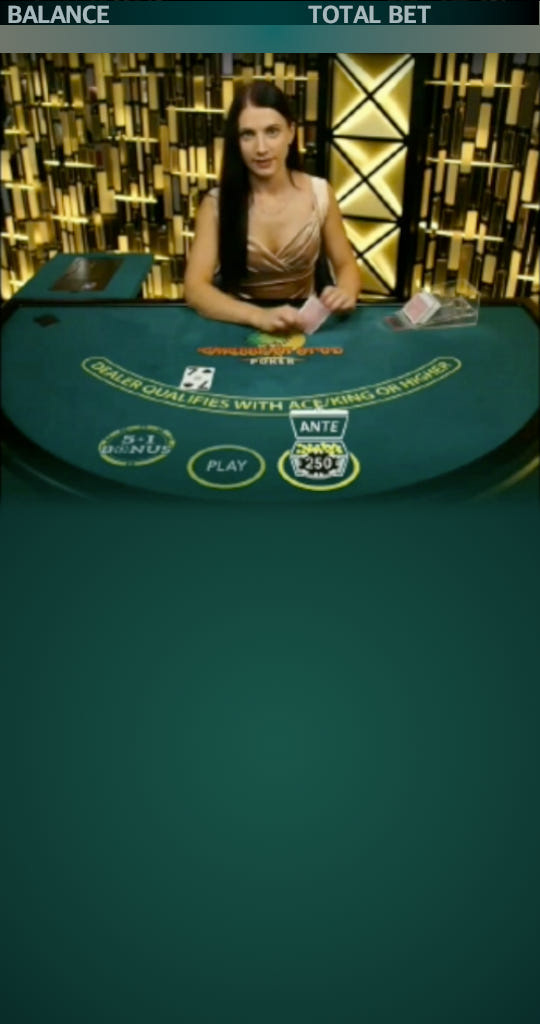
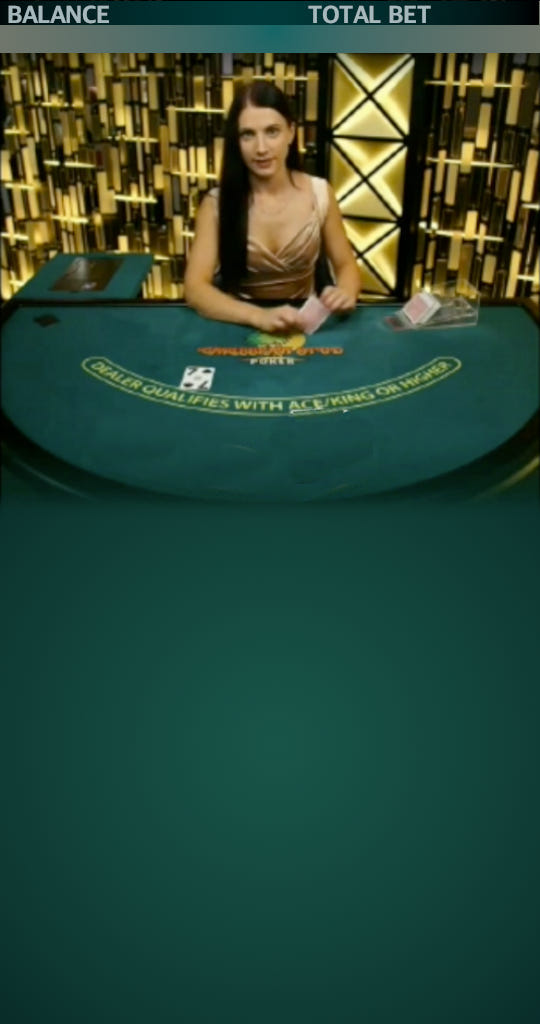
Add files via upload

Changed region(s): [[0.1778, 0.375, 0.6815, 0.5]]

diff --git a/anim.js b/anim.js
@@ -2,72 +2,87 @@
 let app = new Application({ width: 540, height: 1024, antialiasing: true, transparent: false, resolution: window.devicePixelRatio || 1 });
 var element = document.getElementById("anim");//HTML elemet for placing canvas for game
 element.appendChild(app.view);//Add app view in html element
+var basepath = "./assets/";
 //Image string that uses in game 
-var imageArr = ["assets/menu.png", "assets/repeat.png", "assets/undo.png", "assets/bonus.png", "assets/anteglow.png", "assets/ante.png", "assets/0.png", "assets/1.png", "assets/2.png", "assets/3.png", "assets/4.png", "assets/5.png", "assets/background.jpeg"];
+
+
+var imageArr = [basepath + "tableBonus.png", basepath + "tablePlay.png", basepath + "tableANTE.png", basepath + "opecity.png", basepath + "toolowbase.png",
+basepath + "menu.png", basepath + "repeat.png", basepath + "undo.png", basepath + "bonus.png", basepath + "anteglow.png", basepath + "ante.png", basepath + "0.png", basepath + "1.png", basepath + "2.png", basepath + "3.png", basepath + "4.png", basepath + "5.png", basepath + "background.jpeg"];
 for (var i = 2; i < 15; i++) {
-  imageArr.push("assets/cards/C" + i + ".png");//club card load
-  imageArr.push("assets/cards/D" + i + ".png");//Dimond card load
-  imageArr.push("assets/cards/H" + i + ".png");//Heart card load
-  imageArr.push("assets/cards/S" + i + ".png");//Spade card load
+  imageArr.push(basepath + "cards/C" + i + ".png");//club card load
+  imageArr.push(basepath + "cards/D" + i + ".png");//Dimond card load
+  imageArr.push(basepath + "cards/H" + i + ".png");//Heart card load
+  imageArr.push(basepath + "cards/S" + i + ".png");//Spade card load
 }
 // Load images
 loader.add(imageArr).on("progress", loadProgressHandler).load(setup);
 
 //for loading progress
 function loadProgressHandler(loader, resource) {
-  console.log("loading: " + resource.url);
-  console.log("progress: " + loader.progress + "%");
+  // console.log("loading: " + resource.url);
+  // console.log("progress: " + loader.progress + "%");
 }
 
 // Call after load all resources 
 function setup() {
-
-  background = new Sprite(resources["assets/background.jpeg"].texture);//create background Sprite
+  document.addEventListener('touchstart', e =>{toggleFullScreen();}); //toggle fullscreen for mobile
+  document.addEventListener('mousedown', e =>{toggleFullScreen();});  //toggle fullscreen for desktop
+  background = new Sprite(resources[basepath + "background.jpeg"].texture);//create background Sprite
   app.stage.addChild(background);//add background Sprite in app
+  trans_Background = new Sprite(resources[basepath + "opecity.png"].texture);//create background Sprite
   app.stage.addChild(graphics);//add graphics in app view for drowing Rectangles
-  sprite_undo = loadSprite("assets/undo.png", 112, 500, 610, 1);//create and add undo Sprite in app view with click event 112
-  sprite_repeat = loadSprite("assets/repeat.png", 111, 500, 810, 1);//create and add repeat Sprite in app view with click event 111
-  sprite_menu = loadSprite("assets/menu.png", 110, 500, 900, 1);//create and add menu Sprite in app view with click event 110
+
+
+  tableBonus = loadSprite(basepath + "tableBonus.png" , 113, 130, 435, 1);//create and add tableBonus Sprite in app view with click event 112
+  tablePlay = loadSprite(basepath + "tablePlay.png"   , 114, 222, 460, 1);//create and add tablePlay Sprite in app view with click event 112
+  tableANTE = loadSprite(basepath + "tableANTE.png"   , 115, 320, 460, 1);//create and add tableANTE Sprite in app view with click event 112
+
+  sprite_undo = loadSprite(basepath + "undo.png", 112, 500, 610, 1);//create and add undo Sprite in app view with click event 112
+  sprite_repeat = loadSprite(basepath + "repeat.png", 111, 500, 810, 1);//create and add repeat Sprite in app view with click event 111
+  sprite_menu = loadSprite(basepath + "menu.png", 110, 500, 900, 1);//create and add menu Sprite in app view with click event 110
+  app.stage.addChild(trans_Background);//add background Sprite in app
+  trans_Background.visible = false;
   // Require small coin for flying animation  
   for (let i = 0; i < coinArray.length; i++) {
-    coinArray[i] = loadSprite("assets/" + i + ".png", i, posx, posy, 1);//create and add coinArray Sprite in app view with click event i(0 to 5)
+    coinArray[i] = loadSprite(basepath + "" + i + ".png", i, posx, posy, 1);//create and add coinArray Sprite in app view with click event i(0 to 5)
   }
-
   // Require big coin for flying animation  
   for (let i = 0; i < coinArrayBig.length; i++) {
-    coinArrayBig[i] = loadSprite("assets/" + i + ".png", i + 6, posx, posy, 1.5);//create and add coinArrayBig Sprite in app view with click event i + 6(6 to 11)
+    coinArrayBig[i] = loadSprite(basepath + "" + i + ".png", i + 6, posx, posy, 1.5);//create and add coinArrayBig Sprite in app view with click event i + 6(6 to 11)
     coinArrayBig[i].visible = selCoin == 0;//set visible big coin 
   }
-
-  sprite_GlowAnte = loadSprite("assets/anteglow.png", -1, 270, 840, 1);//create and add sprite_GlowAnte Sprite in app view
+  console.log("Boolean(10 > 9)" + Math.random());
+  console.log(compRan());
+  sprite_GlowAnte = loadSprite(basepath + "anteglow.png", -1, 270, 840, 1);//create and add sprite_GlowAnte Sprite in app view
   sprite_GlowAnte.vx = 1;//set sprite_GlowAnte scale 
   sprite_GlowAnte.vy = .01;//for animating glow by scale fector 
   // Require to load for ANTE button
-  spriteAnte = loadSprite("assets/ante.png", 100, 270, 840, 1);//create and add Ante Sprite in app view with click event 100
-
+  spriteAnte = loadSprite(basepath + "ante.png", 100, 270, 840, 1);//create and add Ante Sprite in app view with click event 100
   // Require to load for Bonus button
-  sprite_bonus = loadSprite("assets/bonus.png", 101, 170, 688, 1);//create and add bonus in app view with click event 101
-
+  sprite_bonus = loadSprite(basepath + "bonus.png", 101, 170, 688, 1);//create and add bonus in app view with click event 101
   txtBalance = loadText({ fill: "#9e9b4d", fontSize: 20, fontWeight: "bold" });//create and add Balance Text in app view
   txtBat = loadText({ fill: "#9e9b4d", fontSize: 20, fontWeight: "bold" });//create and add Bat Text in app view
   txtDydnamic = loadText({ fill: "#fafafa", fontSize: 25, fontWeight: "normal" });//create and add Dydnamic Text in app view
   txtbottomLeft = loadText({ fill: "#fafafa", fontSize: 15, fontWeight: "normal" });//create and add Dydnamic Text in app view
-  txtbottomLeft.position.set(10,1000);
+  txtbottomLeft.position.set(10, 1000);
   txtbottomLeft.text = 'Left Test';
   txtbottomRight = loadText({ fill: "#fafafa", fontSize: 15, fontWeight: "normal" });//create and add Dydnamic Text in app view
-  txtbottomRight.position.set(400,1000);
+  txtbottomRight.position.set(400, 1000);
   txtbottomRight.text = 'txtbottomRight Test';
+
+  toolowbase = loadSprite_2(basepath + "toolowbase.png", 455, 710, 1.2);
+  txtWait4Next = loadText({ fill: "#fafafa", fontSize: 15, fontWeight: "normal" });
+  txtWait4Next.position.set(400, 700);
+  txtWait4Next.text = 'Balance too low';
+  txtWait4Next.myCustomProperty = 1;
+
   for (var i = 0; i < 4; i++) {
     txt_4_card.push(loadText({ fill: "#fafafa", fontSize: 15, fontWeight: "normal" }));//create and add text for card like "player","dealer","High card" in app view
     txt_4_card[i].visible = false;
   }
-
-
-
   setVisible(true);//set visiblity of coins and button
   resetValue();//call function for reset app related values
   timeoutHandle = setTimeout(nextTurn, 1000);//set timeout function for game dynamicCounter
-
   //Calling play recursive for rendering 
   state = play;
   app.ticker.add(delta => gameLoop(delta));
@@ -120,16 +135,37 @@ function onButtonClick(e) {
     return;
   }
   switch (e.target.myCustomProperty) {
+    case 113:case 114:case 115: 
+    if(dynamicCounter<0)
+    {
+      txtWait4Next.myCustomProperty = 100;
+        txtWait4Next.position.set(210, 350);
+        txtWait4Next.text = "Wait for next game";
+    }
+    return;//click for menu button
     case 110: return;//click for menu button
     case 111: sendCoinonTable(500, 810, 320, 458); return;//click for reapeat button
     case 112: undoValuse();
       return;//click for undo button
     case 101://click for bonus button
-      sendCoinonTable(170, 688, 135, 445);
+      if (coinValue[selCoin] > balance) {
+        txtWait4Next.myCustomProperty = 100;
+        txtWait4Next.position.set(sprite_bonus.x, sprite_bonus.y - 50);
+        txtWait4Next.text = 'Balance too low ';
+      } else {
+        sendCoinonTable(170, 688, 135, 445);
+      }
       return;
     case 100://click for ANTE button
-      sendCoinonTable(270, 840, 320, 458);
-      selBigSprite.push(loadSprite("assets/" + selCoin + ".png", -1, 270, 840, 1.5));
+      if (coinValue[selCoin] > balance) {
+        txtWait4Next.myCustomProperty = 100;
+        txtWait4Next.position.set(spriteAnte.x, spriteAnte.y - 50);
+        txtWait4Next.text = 'Balance too low';
+      } else {
+        sendCoinonTable(270, 840, 320, 458);
+        selBigSprite.push(loadSprite(basepath + "" + selCoin + ".png", -1, 270, 840, 1.5));
+      }
+
       return;
     default:// click for all coinArrayBig & coinArray coin
       if (coinArray[2].x > posx - 10) { //coin flying open animation start
@@ -146,16 +182,25 @@ function onButtonClick(e) {
         goOut = -0.2;//set horizontal direction for flying coin and bigcoin
         count = 0;//set cont for flying animation
       } else { ////coin flying cloase animation start
+
         for (let i = 0; i < coinArray.length; i++) {
           coinArray[i].vx = Math.sin((5 - i) * 36 * (Math.PI / 180)) * speed;//set horizontal direction for flying coin close
           coinArray[i].vy = -Math.cos((5 - i) * 36 * (Math.PI / 180)) * speed;//set verticle direction for flying coin close
           if (e.target.myCustomProperty < 6) {// set selCoin coin when click on small coin condition
             coinArrayBig[i].visible = e.target.myCustomProperty == i;// set visible true of big coin when click on respective small coin
             selCoin = e.target.myCustomProperty;// set selCoin coin when click on small coin
+            console.log(i + " txtWait4Next.y = " + txtWait4Next.y);
           }
         }
         goOut = 0.2;//set horizontal direction for flying coin and bigcoin
         count = 0;//set cont for flying animation
+
+
+        if (coinValue[selCoin] > balance) {
+          txtWait4Next.myCustomProperty = 100;
+          txtWait4Next.position.set(400, coinArray[selCoin].y - 50);
+          txtWait4Next.text = 'Too low balance';
+        }
 
       }
       return;
@@ -194,6 +239,7 @@ function setVisible(isvisible) {//set visiblity of bat button and coin
   spriteAnte.visible = isvisible;
   sprite_bonus.visible = isvisible;
   sprite_GlowAnte.visible = isvisible;
+  trans_Background.visible = false;
 }
 function resetValue() {//reset game valuse
   currentbat = 0;//reset bet of game
@@ -210,8 +256,8 @@ function resetValue() {//reset game valuse
     app.stage.removeChild(mSprit_Cards[i]);//remove all cards that uses for player(2) dealer(5) and deal(5) 
   }
   mSprit_Cards.length = 0;
-  for (var i = 0; i < 9; i++) {//asign all cards that uses for player(2) dealer(5) and deal(5) 
-    mSprit_Cards.push(loadSprite_2("assets/cards/" + cards[i] + ".png", 100 + i * 34, 600, .25));
+  for (var i = 0; i < 10; i++) {//asign all cards that uses for player(2) dealer(5) and deal(5) 
+    mSprit_Cards.push(loadSprite_2(basepath + "cards/" + cards[i] + ".png", 100 + i * 34, 600, .25));
   }
   for (var i = 0; i < txt_4_card.length; i++) {
     txt_4_card[i].visible = false;//false visible text for card like "player","dealer","High card" in app view
@@ -227,9 +273,9 @@ function make_deck() {//asign card valus
     cards[j++] = "C" + i;
     cards[j++] = "S" + i;
   }
-  console.log(cards);
+  // console.log(cards);
   shuffle();
-  console.log(cards);
+  // console.log(cards);
 }
 function shuffle() {
   deck_index = 0;
@@ -265,3 +311,10 @@ window.onresize = function (event) {
   console.log("ancho,alto");
   resize();
 };
+
+function toggleFullScreen() {
+  if (!document.fullscreenElement) {
+    document.documentElement.requestFullscreen();
+
+  }
+}

diff --git a/dynmicRect.js b/dynmicRect.js
@@ -3,33 +3,35 @@ function DrawDynamicRect() {
     graphics.alpha = 1;
     if (dynamicCounter > 5) {//this is for plase order with green color
         if (allcounter % 20 > 10)
-            graphics.beginFill(0x00aa00);
+            graphics.beginFill(0x00aa00); //green
         else
-            graphics.beginFill(0x00bb00);
-        txtDydnamic.text = "PLACE YOUR BATS " + dynamicCounter;
-    } else if (dynamicCounter > 0) {//this is for plase order with orange color
+            graphics.beginFill(0x00bb00); //green
+        txtDydnamic.text = "PLACE YOUR BETS " + dynamicCounter;
+    } else if (dynamicCounter > 0) {//this is for place order with orange color
         if (allcounter % 20 > 10)
-            graphics.beginFill(0xff6000);
+            graphics.beginFill(0xff6000); //orange
         else
-            graphics.beginFill(0xd95200);
-        txtDydnamic.text = "PLACE YOUR BATS " + dynamicCounter;
+            graphics.beginFill(0xd95200); //dark orange
+        txtDydnamic.text = "PLACE YOUR BETS " + dynamicCounter;
     } else if (dynamicCounter > -2) {//this is for BATS CLOSED with red color
-        graphics.beginFill(0xff0000);
-        txtDydnamic.text = "......BATS CLOSED......";
+        graphics.beginFill(0xff0000); //red
+        txtDydnamic.text = "......BETS CLOSED......";
     } else {//For "WAIT FOR NEXT GAME with gray color and increase time from nextTurn() dynamicCounter make mode negetive for more time //anim.js line 167
-        graphics.beginFill(0x999999);
+        graphics.beginFill(0x999999); //grey
         txtDydnamic.text = "WAIT FOR NEXT GAME";
     }
     graphics.drawRect(0, 25, app.screen.width, 30);
-    graphics.beginFill(0x13463d);
+    graphics.beginFill(0x13463d); //dark green
     graphics.drawRect(0, 525, app.screen.width, 500);
+
+   
     
 }
 
 
 
 function drawCards() {
-    if (dynamicCounter < -3 && dynamicCounter > -15) {
+    if (dynamicCounter < -3 && dynamicCounter > -15) {//this is for showing two player card
         drawText(0,"PLAYER",240,528);
         drawText(1,"HIGH CARD",230,607);
         graphics.alpha = 0.25;
@@ -40,7 +42,7 @@ function drawCards() {
             mSprit_Cards[i].position.set(255 + i * 34, 580);
         }
     }
-    if (dynamicCounter <= -15 && dynamicCounter > -20) {
+    if (dynamicCounter <= -15 && dynamicCounter > -20) {//this is for showing five player card including(boat card)
         
         graphics.alpha = 0.25;
         graphics.beginFill(0x000000);
@@ -50,21 +52,22 @@ function drawCards() {
             mSprit_Cards[i].position.set(205 + i * 34, 580);
         }
     }
-    if (dynamicCounter <= -20 && dynamicCounter > -30) {
+    if (dynamicCounter <= -20 && dynamicCounter > -30) {//this is for showing ten player and dealer card including(boat card)
         drawText(0,"DEALER WINS",240,528);
         drawText(1,"HIGH CARD",230,607);
         
         drawText(2,"PLAYER",240,643);
         drawText(3,"HIGH CARD",230,720);
         
-        graphics.lineStyle(2, 0xf8db74);
+        graphics.lineStyle(2, 0xf8db74); //yellow
         graphics.alpha = 0.5;
-        graphics.beginFill(0x000000);
-        graphics.drawRect(150, 525, app.screen.width - 300, 100);graphics.lineStyle(0, 0xFF0000);
+        graphics.beginFill(0x000000); //black
+        graphics.drawRect(150, 525, app.screen.width - 300, 100);graphics.lineStyle(0, 0xFF0000); //red
         graphics.drawRect(150, 640, app.screen.width - 300, 100);
         for (var i = 0; i < mSprit_Cards.length; i++) {
             mSprit_Cards[i].visible = true;
             mSprit_Cards[i].position.set(200 + (i % 5) * 34, 580 + Math.floor(i / 5) * 115);
+            // console.log("i= "+i+") mSprit_Cards["+i+"].position.set(200 + ("+(i % 5)+") * 34, 580 + "+Math.floor(i / 5) +"* 115);");
         }
     }
 }

diff --git a/coinanim.js b/coinanim.js
@@ -8,8 +8,17 @@ function coinAnim() {
             coinArray[i].rotation = (Math.PI * speed * count) / 55;//(count*Math.PI)*0.02;
             coinArrayBig[i].x += goOut * 4;
         }
+        if (coinArray[2].vx > 0)//alph animation
+            trans_Background.alpha -= .05;
+        else
+            trans_Background.alpha += .05;
+        trans_Background.visible = true;
         count++;
     } else {
+        if (coinArray[2].vx > 0) {
+            trans_Background.visible = false;
+            trans_Background.alpha = .5;
+        }
         goOut = 0;
     }
     //for coin movment from bonus/ANTE to table
@@ -49,6 +58,16 @@ function coinAnim() {
         sprite_GlowAnte.vx += sprite_GlowAnte.vy;
     }
 
+    if (txtWait4Next.myCustomProperty > 0) {
+        txtWait4Next.myCustomProperty--;
+        txtWait4Next.visible = true;
+        toolowbase.visible = true;
+        toolowbase.position.set(txtWait4Next.x + 62, txtWait4Next.y + 10);
+        if (txtWait4Next.myCustomProperty == 0) {
+            txtWait4Next.visible = false;
+            toolowbase.visible = false;
+        }
+    }
 }
 
 //Common function for movment coin from one place to other
@@ -62,7 +81,7 @@ function sendCoinonTable(stratx, starty, endx, endy) {
 
     var thita = getAngle(stratx, starty, endx, endy);//Get direction angle
 
-    let sprite = new Sprite(resources["assets/" + selCoin + ".png"].texture);
+    let sprite = new Sprite(resources[basepath + selCoin + ".png"].texture);
     sprite.x = stratx;
     sprite.y = starty;
     sprite.ex = endx;
@@ -103,7 +122,7 @@ var getAngle = function (currX, currY, endX, endY) {
 function undoValuse() {
     if (value4undo.length > 0) {
         var bat = value4undo.pop();
-        
+
         currentbat -= bat;
         balance += bat;
 

diff --git a/reqVeriables.js b/reqVeriables.js
@@ -22,7 +22,7 @@ var txt_4_card = [];
 var dynamicCounter = 15;
 
 var currentbat = 0;
-var balance = 9999999;
+var balance = 999;
 
 var allcounter = 0;
 
@@ -52,3 +52,6 @@ var sprite_menu, sprite_repeat,sprite_undo; // button for menu, undo and repeat
 var value4undo = [];
 var txtbottomLeft;//varible for showing balance text
 var txtbottomRight;//varible for showing balance text
+var trans_Background;
+var txtWait4Next,toolowbase;
+var tableBonus,tablePlay,tableANTE;

diff --git a/index.html b/index.html
@@ -21,7 +21,3 @@
     <script src="./dynmicRect.js"></script>
     <script src="./coinanim.js"></script> 
 </body>
-
-
-
-

diff --git a/roulette.js b/roulette.js
@@ -1,0 +1,6 @@
+function drawRoullete()
+{
+
+    graphics.drawRect(0, 25, app.screen.width, 30);
+
+}
